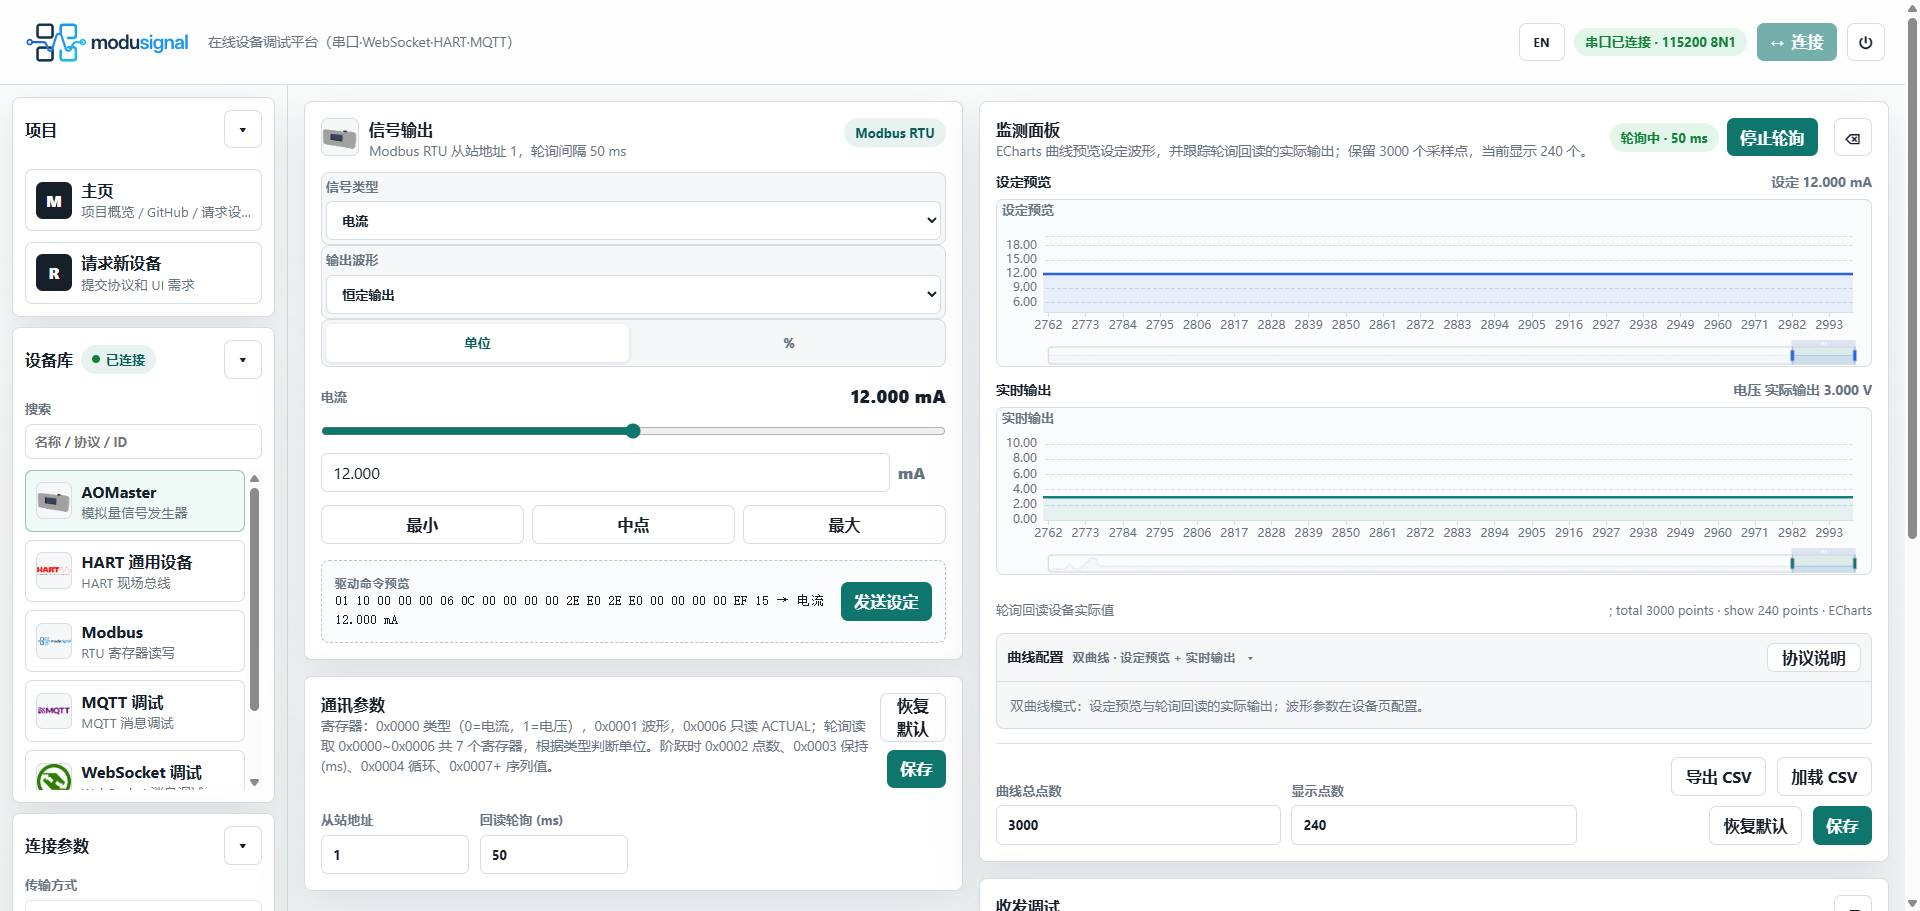
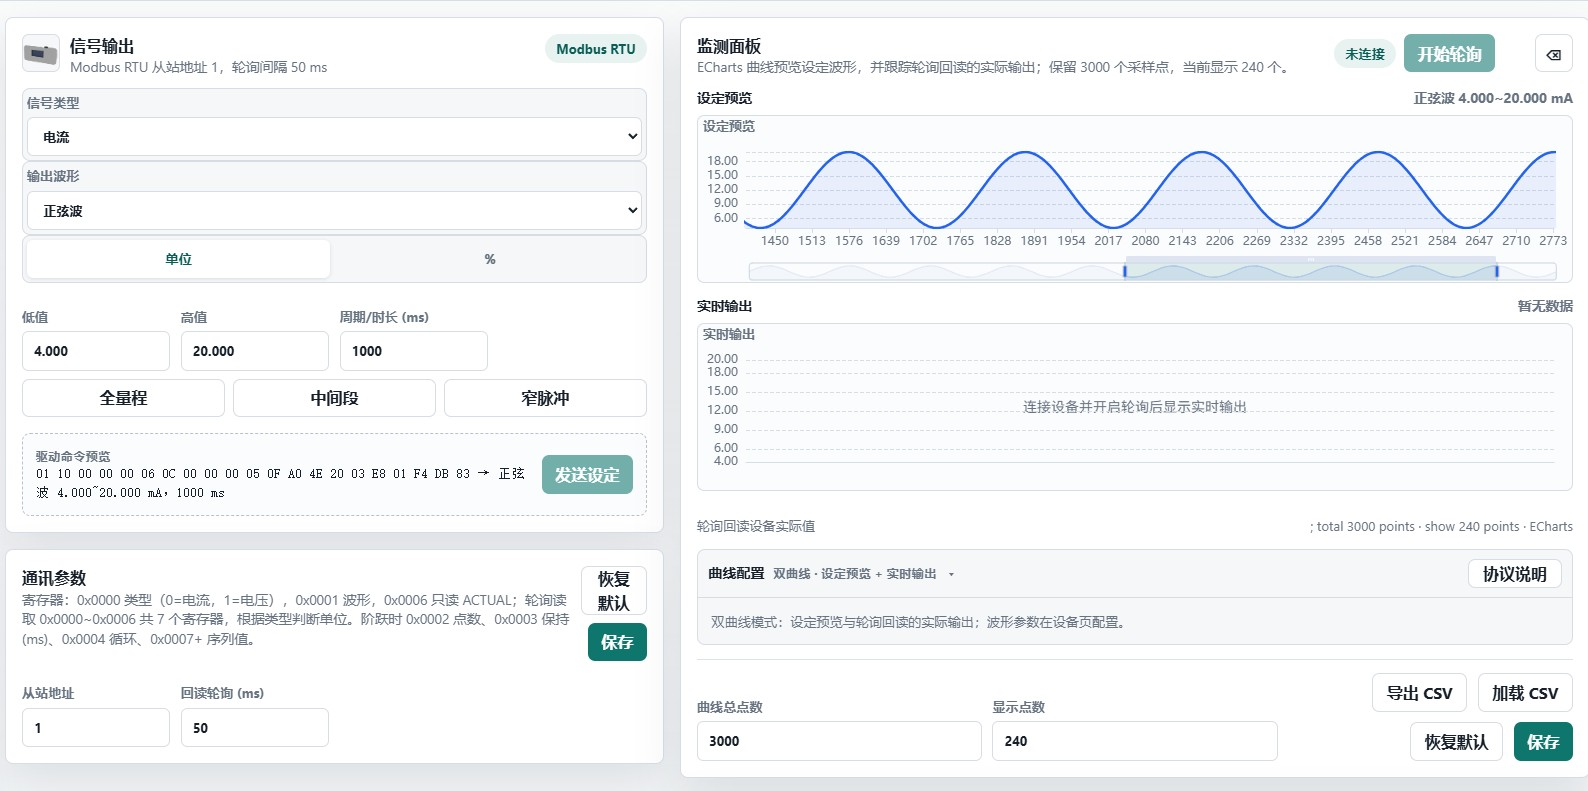
Update calibration references in README files and adjust calibration logic in app.c to reflect new voltage settings. Modify UI display for calibration mode to show updated values. Change default calibration zero code in settings.c for consistency.

Changed region(s): [[0.0, 0.0, 1.0, 1.0], [0.4011, 0.0, 1.0, 0.7585], [0.3394, 0.0303, 0.4011, 0.091]]

diff --git a/User/App/app.c b/User/App/app.c
@@ -273,7 +273,12 @@ static uint16_t App_OutputCode(GP8630_OutputMode_t mode, int16_t permille)
         return 0;
 
     span = (uint32_t)cal->full_code - cal->zero_code;
-    code = (int32_t)cal->zero_code + ((int32_t)span * permille) / SETTINGS_PERMILLE_BASE;
+    if(mode == GP8630_OUT_CURR_20MA)
+        code = (int32_t)cal->zero_code + ((int32_t)span * permille) / SETTINGS_PERMILLE_BASE;
+    else
+        code = (int32_t)cal->zero_code +
+               ((int32_t)span * ((int32_t)permille - (SETTINGS_PERMILLE_BASE / 10L))) /
+               (SETTINGS_PERMILLE_BASE - (SETTINGS_PERMILLE_BASE / 10L));
     if(code < 0)
         return 0;
     if(code > (int32_t)GP8630_CODE_MAX)
@@ -385,29 +390,8 @@ static int16_t Signal_RawToPermille(uint8_t mode, uint16_t raw)
 
 static uint16_t Signal_CodeFromRaw(uint8_t mode, uint16_t raw)
 {
-    const SettingsCal_t *cal = Settings_GetCal(Signal_ToGpMode(mode));
-    uint32_t span;
-    int32_t code;
-
     raw = Signal_ClampRaw(mode, raw);
-    if(cal->full_code <= cal->zero_code)
-        return 0;
-
-    span = (uint32_t)cal->full_code - cal->zero_code;
-    if(Signal_IsVoltageMode(mode))
-    {
-        code = (int32_t)cal->zero_code + ((int32_t)span * raw) / 10000L;
-    }
-    else
-    {
-        code = (int32_t)cal->zero_code + ((int32_t)span * ((int32_t)raw - 4000L)) / 16000L;
-    }
-
-    if(code < 0)
-        return 0;
-    if(code > (int32_t)GP8630_CODE_MAX)
-        return GP8630_CODE_MAX;
-    return (uint16_t)code;
+    return App_OutputCode(Signal_ToGpMode(mode), Signal_RawToPermille(mode, raw));
 }
 
 static uint16_t Signal_SettingsRaw(void)
@@ -1049,7 +1033,7 @@ static void App_EnterCalZero(void)
     s_app.cal_full = cal->full_code;
     s_app.cal_err = 0;
 
-    if(GP8630_GetMode() != s_app.cal_mode)
+    if(!GP8630_IsReady() || GP8630_GetMode() != s_app.cal_mode)
     {
         s_app.view = VIEW_CAL_WAIT;
         GP8630_BeginInitWithMode(s_app.cal_mode);
@@ -1438,6 +1422,11 @@ static void App_HandleCalZero(int16_t diff, uint8_t click, uint8_t long_click)
 {
     if(long_click)
     {
+        if(GP8630_GetMode() != Settings_Get()->output_mode)
+        {
+            App_RestoreRunMode();
+            return;
+        }
         App_ApplyOutput();
         App_EnterCalMode();
         return;

diff --git a/User/App/ui.c b/User/App/ui.c
@@ -405,7 +405,7 @@ void Ui_DrawCalModeMenu(uint8_t sel)
 {
     Ui_WriteText(0, "        CAL");
     Ui_WriteBlank(1);
-    Ui_WriteMenuItem(2, sel == 0U, "0V / 10V");
+    Ui_WriteMenuItem(2, sel == 0U, "1V / 10V");
     Ui_WriteBlank(3);
     Ui_WriteMenuItem(4, sel == 1U, "4mA / 20mA");
     Ui_WriteBlank(5);
@@ -423,7 +423,7 @@ void Ui_DrawCalAdjust(GP8630_OutputMode_t mode, uint8_t full_step, uint16_t code
     if(mode == GP8630_OUT_CURR_20MA)
         Ui_WriteText(1, full_step ? "HIGH 20mA" : "LOW 4mA");
     else
-        Ui_WriteText(1, full_step ? "HIGH 10V" : "LOW 0V");
+        Ui_WriteText(1, full_step ? "HIGH 10V" : "LOW 1V");
 
     Ui_WriteBlank(2);
     Ui_LineBegin();
@@ -445,7 +445,7 @@ void Ui_DrawCalSave(GP8630_OutputMode_t mode, uint16_t zero_code, uint16_t full_
 
     Ui_WriteBlank(1);
     Ui_LineBegin();
-    Ui_PutStr("Z:");
+    Ui_PutStr("L:");
     Ui_PutCode(zero_code);
     Ui_PutStr(" F:");
     Ui_PutCode(full_code);

diff --git a/User/App/settings.c b/User/App/settings.c
@@ -5,10 +5,11 @@
 #include <stddef.h>
 
 #define SETTINGS_FLASH_ADDR     0x08003FC0U
-#define SETTINGS_MAGIC          0xA05E0006U
+#define SETTINGS_MAGIC          0xA05E0007U
 #define SETTINGS_SAVE_DELAY_MS  500U
 #define SETTINGS_CAL_MIN_SPAN   1000U
 #define SETTINGS_FLASH_WORDS    16U
+#define SETTINGS_VOLT_1V_CODE_12V    5461U
 #define SETTINGS_VOLT_10V_CODE_12V   54613U
 #define SETTINGS_CURR_4MA_CODE_24MA  10923U
 #define SETTINGS_CURR_20MA_CODE_24MA 54613U
@@ -80,7 +81,7 @@ static void Settings_SetDefaultCal(SettingsCal_t *cal, uint8_t index)
     }
     else
     {
-        cal->zero_code = 0U;
+        cal->zero_code = SETTINGS_VOLT_1V_CODE_12V;
         cal->full_code = SETTINGS_VOLT_10V_CODE_12V;
     }
 }

diff --git a/README.en.md b/README.en.md
@@ -166,7 +166,7 @@ Main menu items:
 | --- | --- | --- |
 | `Output Mode` | Select normal output mode: `0-10V Volt` or `4-20mA Cur` | `Turn` to select, `OK` to save and reinitialize GP8630, `L` to return |
 | `Signal Gen` | Local signal generator for output type, waveform, low value, high value, and period | `OK` to enter/finish editing, `Turn` to adjust, `L` to return |
-| `Calibrate` | Start 0/10 V or 4/20 mA two-point calibration | `Turn` to adjust the DAC code, `OK` for next/save, `L` for previous/back |
+| `Calibrate` | Start 1/10 V or 4/20 mA two-point calibration | `Turn` to adjust the DAC code, `OK` for next/save, `L` for previous/back |
 | `Brightness` | Adjust OLED brightness | `Turn` to change brightness, `OK` to save, `L` to cancel and restore the previous brightness |
 | `Status` | Show GP8630 status, I2C address, and I2C error count | `OK` or `L` returns to the main menu |
 | `Exit` | Leave the menu and return to the home screen | `OK` returns home |

diff --git a/README.md b/README.md
@@ -168,7 +168,7 @@ AOMaster 的上位机推荐使用 [modusignal](https://modusignal.cn/) 的 AOMas
 | --- | --- | --- |
 | `Output Mode` | 选择常规输出模式：`0-10V Volt` 或 `4-20mA Cur` | `Turn` 选择，`OK` 保存并重新初始化 GP8630，`L` 返回 |
 | `Signal Gen` | 本地信号发生器，配置输出类型、波形、低值、高值和周期 | `OK` 进入/结束编辑，`Turn` 调整，`L` 返回 |
-| `Calibrate` | 进入 0/10 V 或 4/20 mA 两点校准流程 | `Turn` 微调 DAC 码值，`OK` 下一步/保存，`L` 返回上一步 |
+| `Calibrate` | 进入 1/10 V 或 4/20 mA 两点校准流程 | `Turn` 微调 DAC 码值，`OK` 下一步/保存，`L` 返回上一步 |
 | `Brightness` | 调整 OLED 亮度 | `Turn` 调亮/调暗，`OK` 保存，`L` 放弃并恢复原亮度 |
 | `Status` | 查看 GP8630 状态、I2C 地址和 I2C 错误计数 | `OK` 或 `L` 返回主菜单 |
 | `Exit` | 退出菜单回到主界面 | `OK` 返回主界面 |